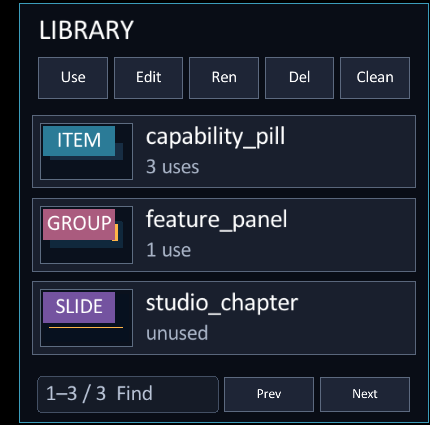
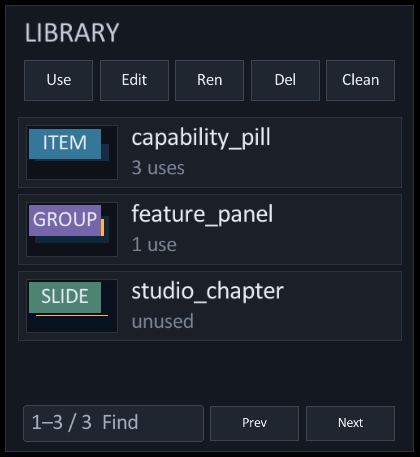
Refresh documentation captures for the new Studio chrome
Every checked-in Studio figure still showed the pre-theme UI. Recapture all
ten surfaces with tools/docs_studio_capture.py at native 2560x1440 and re-cut
the five derived panel crops from those frames, then sync the declared img
sizes in studio.html and motion.html to the new files.

Fix a regression from the theme pass: the active slide card and selected
Library row painted their selection wash in the overlay, on top of the
thumbnail and Library visual rendered in between. The wash now happens in the
background pass where the card fill belongs, so previews are visible again.
Studio baselines recaptured accordingly.

Also retheme the CSS reproductions of real controls in the docs (alignment,
equal-gap, grid-appearance options, morph Properties tab) so they match the
screenshots beside them.

studio-status-bar.png is left untouched: the status text it shows sits under
the morph timeline in the wide docked layout, so it cannot be recaptured at
2560x1440 today.

Changed region(s): [[0.0, 0.0, 1.0, 1.0], [0.3405, 0.7647, 0.4952, 0.8259], [0.2786, 0.7953, 0.3095, 0.8259]]

diff --git a/docs/studio.html b/docs/studio.html
@@ -57,7 +57,7 @@
           <h2>Create an object</h2>
           <p>Choose a creation tool, then click the canvas. Studio returns to Select after one placement.</p>
           <figure class="shot shot-toolbar">
-            <img src="images/studio-creation-toolbar.png" alt="Studio toolbar with Select, Text, Bullets, Image, Video, Rectangle, Line, and Library tools" width="720" height="105" loading="lazy">
+            <img src="images/studio-creation-toolbar.png" alt="Studio toolbar with Select, Text, Bullets, Image, Video, Rectangle, Line, and Library tools" width="696" height="77" loading="lazy">
             <figcaption><strong>The creation buttons are source-native canvas tools.</strong> Each new object becomes source-backed content.</figcaption>
           </figure>
           <div class="table-wrap">
@@ -150,7 +150,7 @@
           <h3>Use the Properties actions</h3>
           <div class="panel-guide">
             <figure class="shot panel-capture">
-              <img src="images/studio-properties-panel.png" alt="Properties panel with Duplicate, Delete, Reuse, Lock, geometry, color, rotation, opacity, alignment, and layer controls" width="380" height="835" loading="lazy">
+              <img src="images/studio-properties-panel.png" alt="Properties panel with Duplicate, Delete, Reuse, Lock, geometry, color, rotation, opacity, alignment, and layer controls" width="496" height="882" loading="lazy">
               <figcaption><strong>The scope appears below the fields.</strong> This example edits a shared group definition.</figcaption>
             </figure>
             <div class="panel-copy">
@@ -309,7 +309,7 @@
           <h2>Organize slides</h2>
           <div class="panel-guide">
             <figure class="shot panel-capture">
-              <img src="images/studio-slides-panel.png" alt="Slides panel with Add, Duplicate, Delete, Up, Down, Template, Find, Previous, and Next controls plus showcase thumbnails" width="430" height="690" loading="lazy">
+              <img src="images/studio-slides-panel.png" alt="Slides panel with Add, Duplicate, Delete, Up, Down, Template, Find, Previous, and Next controls plus showcase thumbnails" width="420" height="728" loading="lazy">
               <figcaption><strong>A slide card shows its title, item count, and state count.</strong> Click the card to load it.</figcaption>
             </figure>
             <div class="panel-copy">
@@ -353,7 +353,7 @@
           <p>Select an entry to preview it. The preview does not change the deck.</p>
           <div class="panel-guide">
             <figure class="shot panel-capture panel-capture-short">
-              <img src="images/studio-library-panel.png" alt="Library panel with current Item, Group, and Slide entries plus management controls" width="430" height="425" loading="lazy">
+              <img src="images/studio-library-panel.png" alt="Library panel with current Item, Group, and Slide entries plus management controls" width="420" height="457" loading="lazy">
               <figcaption><strong>Each row shows its type and use count.</strong> An unused entry can still be a deliberate asset.</figcaption>
             </figure>
             <div class="panel-copy">

diff --git a/docs/styles.css b/docs/styles.css
@@ -847,8 +847,8 @@ td:first-child {
   display: grid;
   min-height: 42px;
   color: var(--muted);
-  background: #121d2f;
-  border: 1px solid #52627c;
+  background: #202630;
+  border: 1px solid #3b4452;
   border-radius: 3px;
   place-items: center;
   font-family: var(--mono);
@@ -889,9 +889,9 @@ td:first-child {
 }
 
 .grid-option-row span.active {
-  color: #06121b;
-  background: var(--cyan);
-  border-color: var(--cyan-soft);
+  color: #e7ebf2;
+  background: #1b557a;
+  border-color: #3ea6df;
 }
 
 .grid-contrast-label {
@@ -1724,8 +1724,8 @@ td:first-child {
 
 .morph-edit-properties b {
   padding: 8px;
-  color: #06121b;
-  background: var(--cyan);
+  color: #e7ebf2;
+  background: #1b557a;
   text-align: center;
   font-size: 11px;
 }
@@ -1733,8 +1733,8 @@ td:first-child {
 .morph-edit-properties span {
   padding: 9px;
   color: var(--muted);
-  background: #121d2f;
-  border: 1px solid #52627c;
+  background: #202630;
+  border: 1px solid #3b4452;
   font-family: var(--mono);
   font-size: 10px;
 }

diff --git a/docs/motion.html b/docs/motion.html
@@ -133,7 +133,7 @@
           </figure>
           <p>The bottom timeline shows the base scene and each resolved state.</p>
           <figure class="shot">
-            <img src="images/morph-timeline.png" alt="Morph timeline with Base, Takeover, Explain, and Flow cards plus six state controls" width="1920" height="140" loading="lazy">
+            <img src="images/morph-timeline.png" alt="Morph timeline with Base, Takeover, Explain, and Flow cards plus six state controls" width="2560" height="136" loading="lazy">
             <figcaption><strong>The timeline keeps every control readable.</strong> The selected card has a cyan border.</figcaption>
           </figure>
           <div class="table-wrap">
